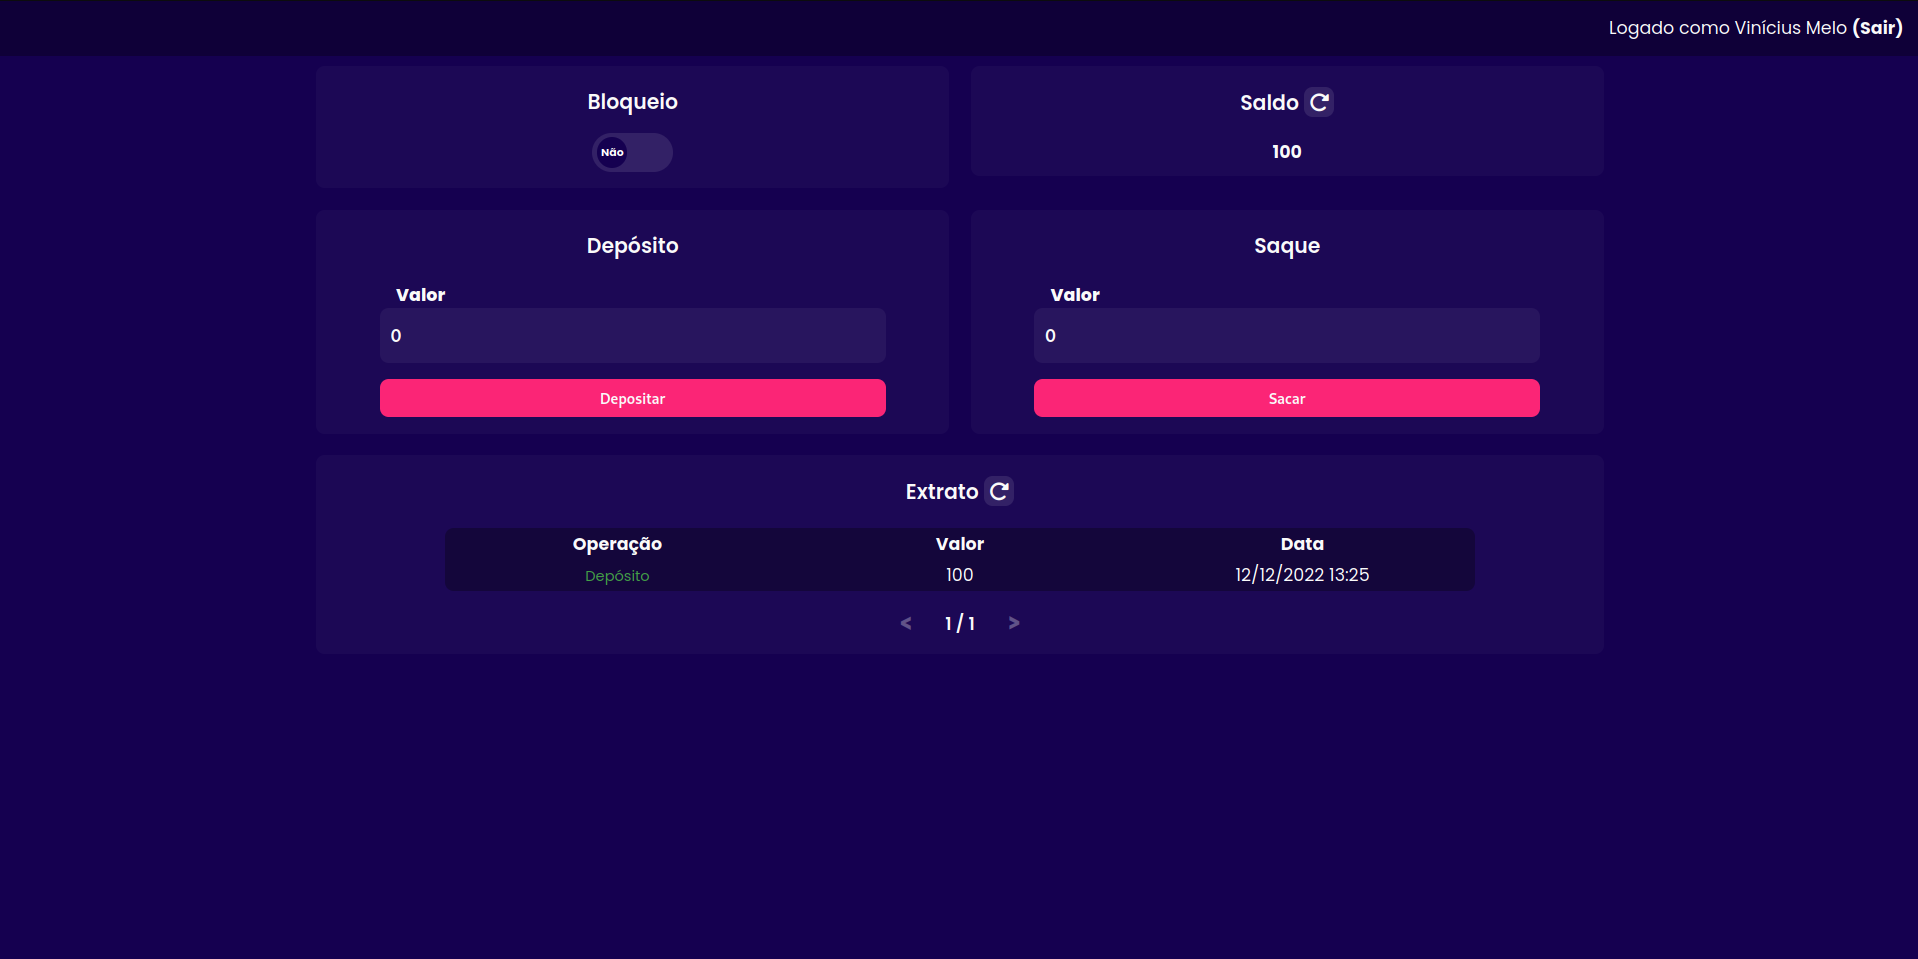
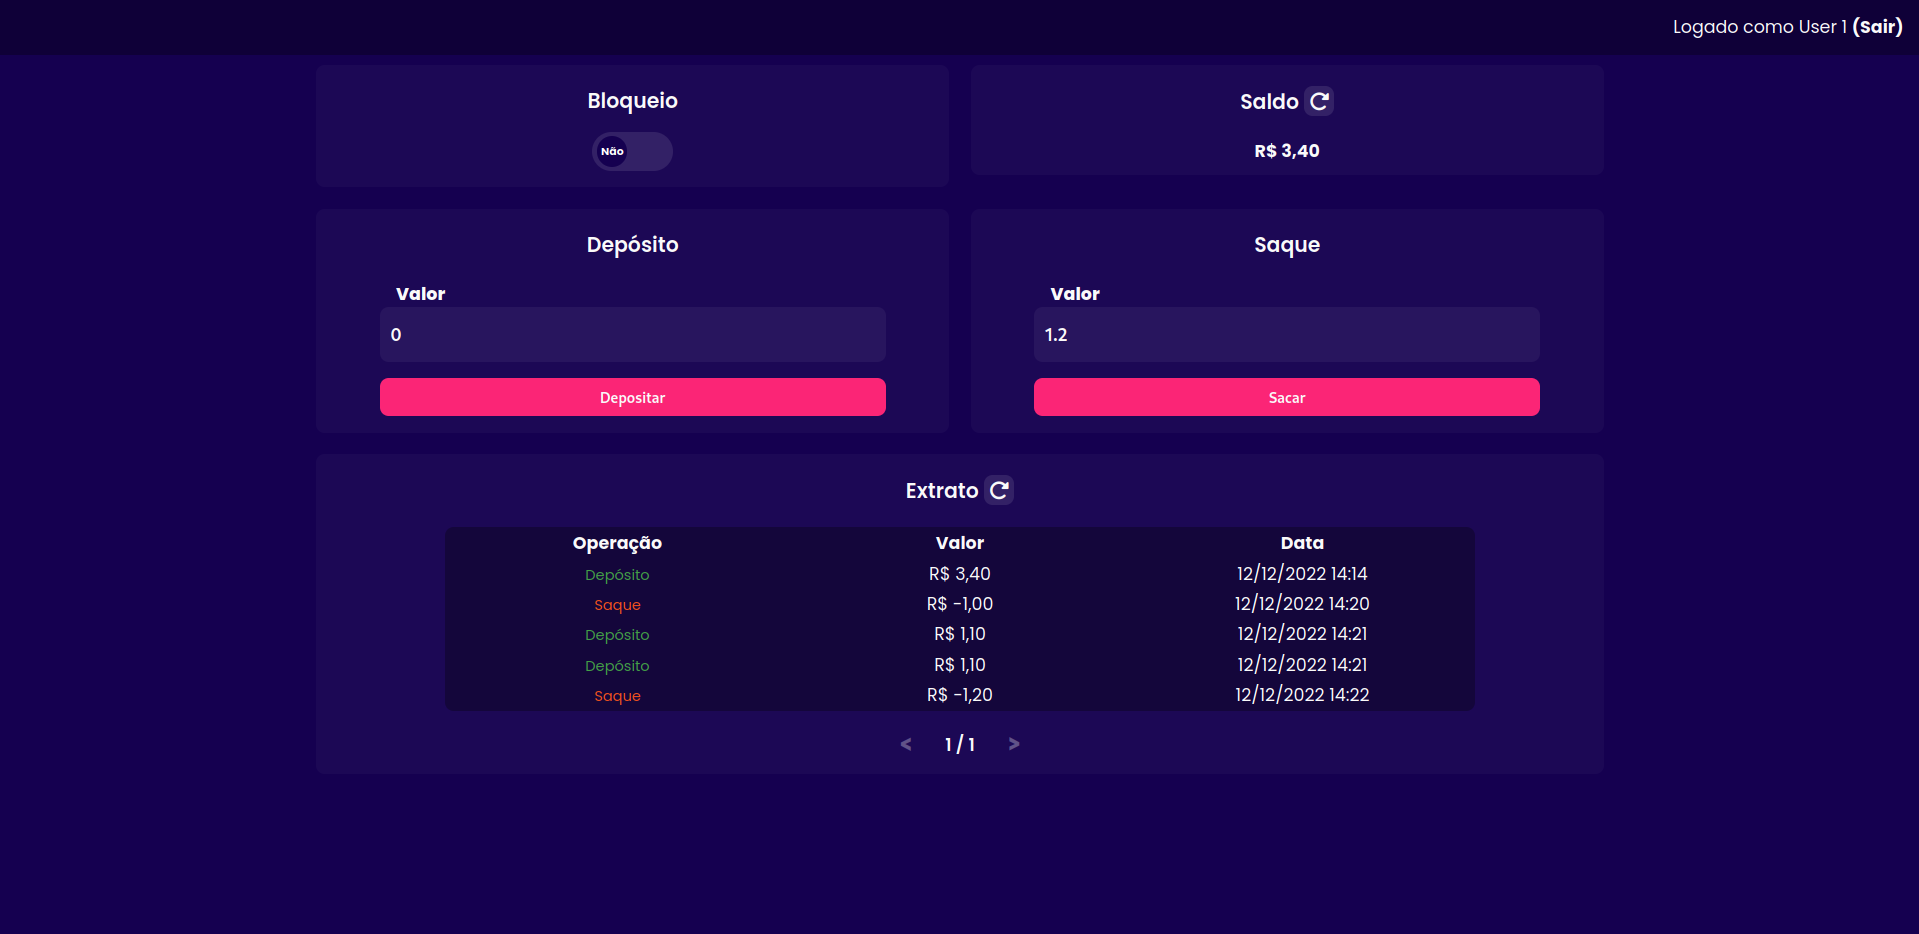
Realiza ajuste de casas decimais

diff --git a/app-bank/src/components/AccountDeposit.vue b/app-bank/src/components/AccountDeposit.vue
@@ -3,7 +3,7 @@
     <h3>Depósito</h3>
     <form @submit.prevent="deposit">
       <label for="amount">Valor</label>
-      <input type="number" name="amount" id="amount" v-model="amount" :disabled="isAccountLocked">
+      <input type="number" name="amount" id="amount" v-model="amount" :disabled="isAccountLocked" placeholder="0.00" required min="0" step="0.01" pattern="^\d+(?:\.\d{1,2})?$">
 
       <input type="submit" value="Depositar" :disabled="isAccountLocked">
     </form>

diff --git a/app-bank/src/components/AccountWithdrawal.vue b/app-bank/src/components/AccountWithdrawal.vue
@@ -3,7 +3,7 @@
     <h3>Saque</h3>
     <form @submit.prevent="deposit">
       <label for="amount">Valor</label>
-      <input type="number" name="amount" id="amount" v-model="amount" :disabled="isAccountLocked">
+      <input type="number" name="amount" id="amount" v-model="amount" :disabled="isAccountLocked" placeholder="0.00" required min="0" step="0.01" pattern="^\d+(?:\.\d{1,2})?$">
 
       <input type="submit" value="Sacar" :disabled="isAccountLocked">
     </form>

diff --git a/app-bank/src/components/AccountTransactions.vue b/app-bank/src/components/AccountTransactions.vue
@@ -25,7 +25,7 @@
           </small>
         </td>
         <td>
-          {{ transaction.amount }}
+          R$ {{ String(Number(transaction.amount).toFixed(2)).replace('.', ',') }}
         </td>
         <td>
           {{ formatDate(String(transaction.date_created)) }}

diff --git a/app-bank/src/components/AccountBalance.vue b/app-bank/src/components/AccountBalance.vue
@@ -10,7 +10,7 @@
     </h3>
 
     <strong>
-      {{ balance }}
+      R$ {{ String(Number(balance).toFixed(2)).replace('.', ',') }}
     </strong>
   </div>
 </template>

diff --git a/api-bank/app.py b/api-bank/app.py
@@ -5,7 +5,6 @@ from models import Person, Account, Transaction
 from flask_migrate import Migrate, upgrade, downgrade
 from datetime import datetime
 from services import db
-from decimal import Decimal
 
 
 class CPFAlreadyExists(HTTPError):
@@ -163,8 +162,8 @@ def create_app():
     def create_account(data):
 
         new_account = Account()
-        new_account.balance = 0.0
-        new_account.daily_withdrawal_limit = 1000.0
+        new_account.balance = 0.00
+        new_account.daily_withdrawal_limit = 1000.00
         new_account.is_active = True
         new_account.account_type = data.get('account_type')
         new_account.date_created = datetime.now()
@@ -217,6 +216,7 @@ def create_app():
             abort(403, 'Account locked.')
 
         amount_to_deposit = abs(data.get('amount'))
+
         new_transaction = Transaction()
         new_transaction.amount = amount_to_deposit
         new_transaction.account_id = data.get('account_id')
@@ -226,7 +226,7 @@ def create_app():
 
         user_account = Account.query.filter_by(
             id=data.get('account_id')).first()
-        user_account.balance += Decimal(amount_to_deposit)
+        user_account.balance += amount_to_deposit
 
         db.session.commit()
 
@@ -236,7 +236,7 @@ def create_app():
     @app.input(TransactionIn)
     @app.output(AccountOut(partial=True), status_code=201)
     def create_withdrawal(data):
-        amount_to_withdrawal = abs(data.get('amount'))
+        amount_to_withdrawal = round(abs(data.get('amount')), 2)
         user_account = Account.query.filter_by(
             id=data.get('account_id')).first()
 
@@ -249,6 +249,9 @@ def create_app():
         if not account_has_limit:
             abort(403, 'Daily limit exceeded!')
 
+        if user_account.balance - amount_to_withdrawal < 0:
+            abort(403, 'Not enough funds1!')
+
         new_transaction = Transaction()
         new_transaction.amount = -amount_to_withdrawal
         new_transaction.account_id = data.get('account_id')
@@ -256,7 +259,7 @@ def create_app():
         db.session.add(new_transaction)
         db.session.commit()
 
-        user_account.balance -= Decimal(amount_to_withdrawal)
+        user_account.balance -= amount_to_withdrawal
         db.session.commit()
 
         return {'balance': user_account.balance}

diff --git a/api-bank/models/account.py b/api-bank/models/account.py
@@ -4,8 +4,8 @@ from services import db
 class Account(db.Model):
     __tablename__ = "account"
     id = db.Column(db.Integer, primary_key=True)
-    balance = db.Column(db.Numeric, nullable=False)
-    daily_withdrawal_limit = db.Column(db.Numeric, nullable=False)
+    balance = db.Column(db.Float, nullable=False)
+    daily_withdrawal_limit = db.Column(db.Float, nullable=False)
     is_active = db.Column(db.Boolean, default=True)
     account_type = db.Column(db.Integer, nullable=False)
     date_created = db.Column(db.DateTime, nullable=False)

diff --git a/api-bank/models/transaction.py b/api-bank/models/transaction.py
@@ -4,7 +4,7 @@ from services import db
 class Transaction(db.Model):
     __tablename__ = "transaction"
     id = db.Column(db.Integer, primary_key=True)
-    amount = db.Column(db.Numeric, nullable=False)
+    amount = db.Column(db.Float, nullable=False)
     date_created = db.Column(db.DateTime, nullable=False)
 
     account_id = db.Column(db.Integer, db.ForeignKey("account.id"))
